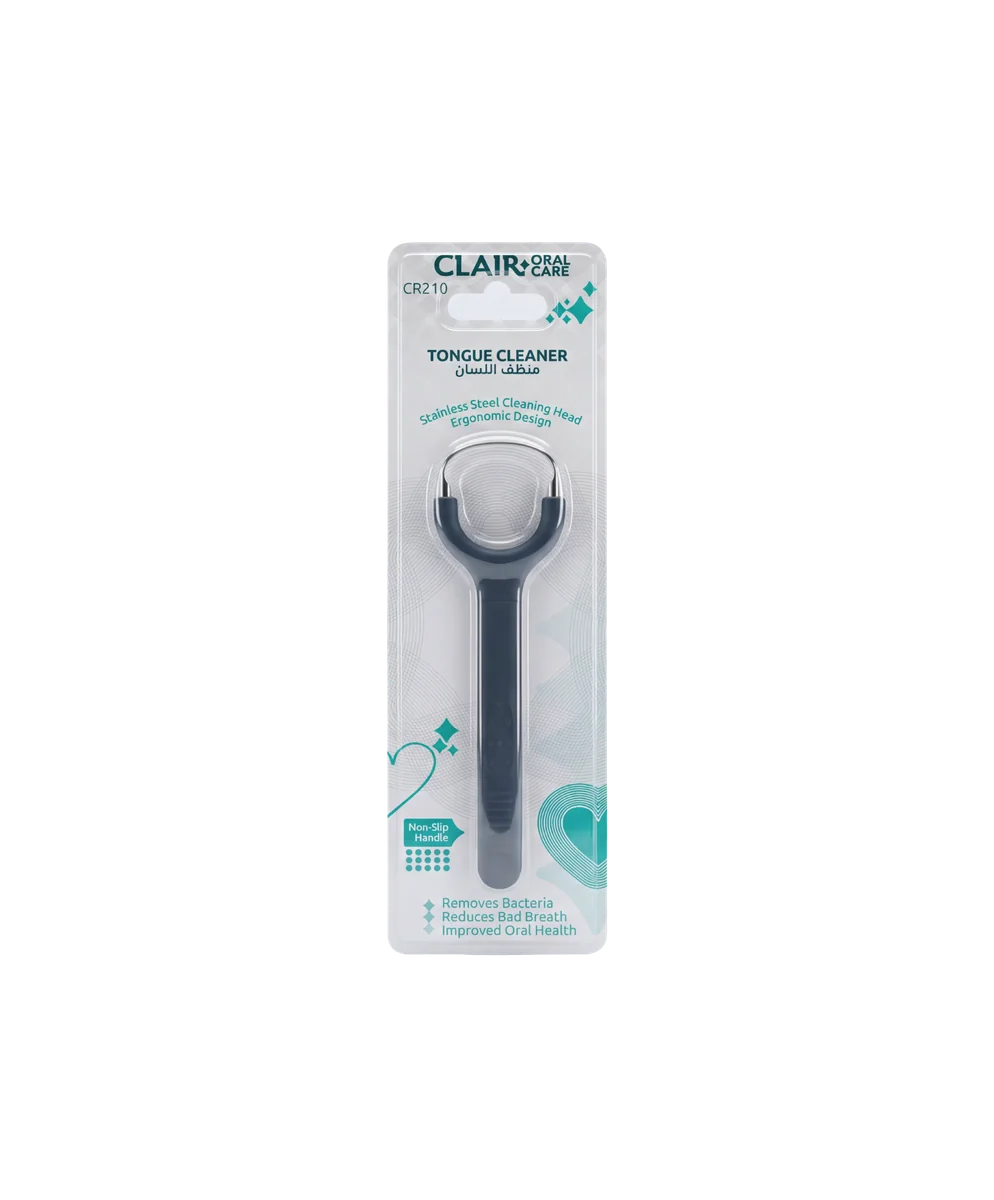
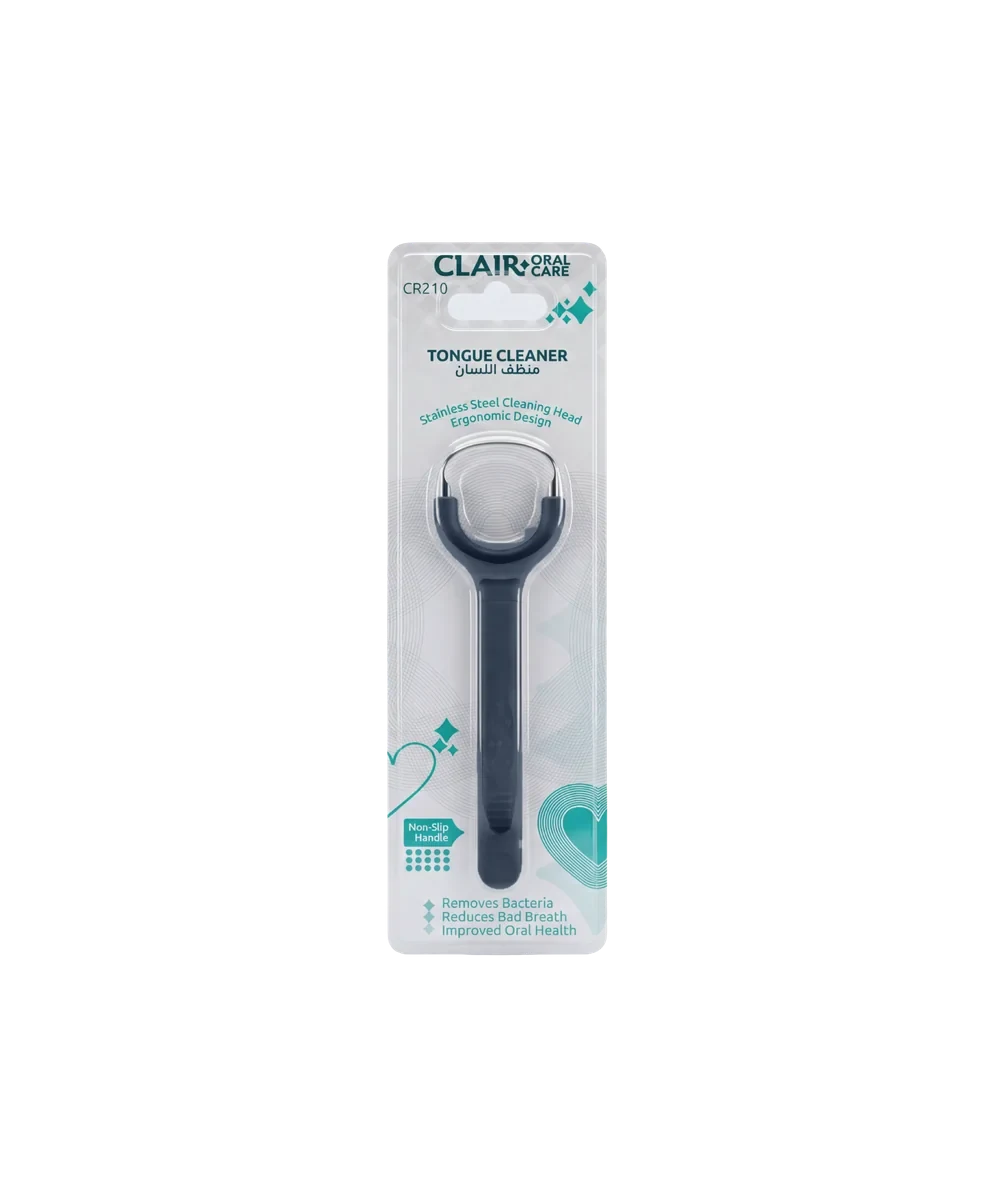
Colour variants for the tongue cleaner, and one asset version across the site
CR210 now shows four handle colours and CR124 two, as a scrollable picker in
the zoom. The variants are rendered from the official product art rather than
photographed: each render already shows one colourway, so the others come from
isolating the handle and retinting it, leaving the stainless head, the printed
card and the alpha channel untouched. The handle is one flat colour end to end,
matching the packs, with the moulded grip ribs preserved.

Also bumps style.css and script.js to v=41 on all twenty-one pages. Only the two
edited product pages had picked it up, so returning visitors would have been
served the stale stylesheet everywhere else.

images/ is left in place. Nothing on the site references it, but the brochure
pages and older renders may be linked from listings and proposals.

Changed region(s): [[0.4366, 0.4317, 0.5614, 0.4933], [0.4678, 0.6475, 0.5302, 0.74]]

diff --git a/range.html b/range.html
@@ -23,7 +23,7 @@
 
 <link rel="preconnect" href="https://fonts.googleapis.com">
 <link rel="preconnect" href="https://fonts.gstatic.com" crossorigin>
-<link rel="stylesheet" href="style.css?v=40">
+<link rel="stylesheet" href="style.css?v=41">
 
 <script>document.documentElement.classList.add('js');</script>
 
@@ -675,8 +675,8 @@
           <img class="official-product-image" src="official/cr210-tongue-steel.webp" alt="Clair stainless steel tongue cleaner CR210" loading="lazy" width="300" height="290">
         </div>
         <div class="product-card-info">
-          <div><h3><a href="/products/stainless-steel-tongue-cleaner/">Stainless Steel Tongue Cleaner</a></h3><p>Stainless-steel head · ergonomic non-slip handle</p></div>
-          <a class="round-arrow" href="official/cr210-tongue-steel.webp" data-zoom data-zoom-alt="Clair stainless steel tongue cleaner CR210" aria-label="View Stainless Steel Tongue Cleaner larger"><svg width="16" height="16" aria-hidden="true"><use href="#i-zoom"/></svg></a>
+          <div><h3><a href="/products/stainless-steel-tongue-cleaner/">Stainless Steel Tongue Cleaner</a></h3><p>Stainless-steel head · ergonomic non-slip handle · 4 colours</p></div>
+          <a class="round-arrow" href="official/cr210-tongue-steel.webp" data-zoom data-zoom-more="official/cr210-tongue-rose.webp|official/cr210-tongue-green.webp|official/cr210-tongue-blush.webp" data-zoom-alt="Clair stainless steel tongue cleaner CR210" aria-label="View Stainless Steel Tongue Cleaner larger"><svg width="16" height="16" aria-hidden="true"><use href="#i-zoom"/></svg></a>
         </div>
       </article>
 
@@ -699,8 +699,8 @@
           <img class="official-product-image" src="official/cr124-ortho-set.webp" alt="Clair orthodontic toothbrush set CR124 with angled interdental brush" loading="lazy" width="300" height="290">
         </div>
         <div class="product-card-info">
-          <div><h3><a href="/products/orthodontic-toothbrush-set/">Orthodontic Toothbrush Set</a></h3><p>Ultra soft 0.12 mm · angled interdental brush · 2s</p></div>
-          <a class="round-arrow" href="official/cr124-ortho-set.webp" data-zoom data-zoom-alt="Clair orthodontic toothbrush set CR124 with angled interdental brush" aria-label="View Orthodontic Toothbrush Set larger"><svg width="16" height="16" aria-hidden="true"><use href="#i-zoom"/></svg></a>
+          <div><h3><a href="/products/orthodontic-toothbrush-set/">Orthodontic Toothbrush Set</a></h3><p>Ultra soft 0.12 mm · angled interdental brush · 2s · 2 colours</p></div>
+          <a class="round-arrow" href="official/cr124-ortho-set.webp" data-zoom data-zoom-more="official/cr124-ortho-purple.webp" data-zoom-alt="Clair orthodontic toothbrush set CR124 with angled interdental brush" aria-label="View Orthodontic Toothbrush Set larger"><svg width="16" height="16" aria-hidden="true"><use href="#i-zoom"/></svg></a>
         </div>
       </article>
 
@@ -831,6 +831,6 @@
   </figure>
 </div>
 
-<script src="script.js?v=40"></script>
+<script src="script.js?v=41"></script>
 </body>
 </html>

diff --git a/style.css b/style.css
@@ -843,12 +843,20 @@ html.js .reveal-4 { transition-delay: .39s; }
 }
 /* Picker for products that have more than one picture; absent when they do not. */
 .zoom-thumbs {
-  justify-content: center;
-  flex-wrap: wrap;
+  /* Colour variants can run to five or more shots, so the picker scrolls on one
+     line rather than wrapping. "safe center" keeps it centred when it fits and
+     falls back to flush-start when it overflows, so the first thumb stays
+     reachable. */
+  justify-content: safe center;
+  flex-wrap: nowrap;
   gap: 8px;
   margin-top: 12px;
+  padding-bottom: 4px;
   display: flex;
+  overflow-x: auto;
+  scrollbar-width: thin;
 }
+.zoom-thumb { flex: 0 0 auto; }
 .zoom-thumbs[hidden] { display: none; }
 .zoom-thumb {
   cursor: pointer;
@@ -1159,3 +1167,12 @@ html.js .reveal-4 { transition-delay: .39s; }
   .review-grid { grid-template-columns: 1fr; gap: 10px; }
   .review { padding: 18px 18px 20px; }
 }
+
+/* --- Colour variants -------------------------------------------------------
+   Only the two products that come in more than one handle colour carry this,
+   so it reads as a real affordance rather than a decoration on every page. */
+.product-colours {
+  margin-top: 18px;
+  text-align: center;
+}
+.product-colours .text-link { font-size: 10px; }

diff --git a/products/stainless-steel-tongue-cleaner/index.html b/products/stainless-steel-tongue-cleaner/index.html
@@ -26,7 +26,7 @@
 
 <link rel="preconnect" href="https://fonts.googleapis.com">
 <link rel="preconnect" href="https://fonts.gstatic.com" crossorigin>
-<link rel="stylesheet" href="/style.css?v=40">
+<link rel="stylesheet" href="/style.css?v=41">
 
 <script>document.documentElement.classList.add('js');</script>
 
@@ -181,6 +181,10 @@
 <section class="product-page section-shell" id="product">
   <figure class="product-figure visual-mint">
     <img class="official-product-image" src="/official/cr210-tongue-steel.webp" alt="Clair stainless steel tongue cleaner CR210" width="300" height="290">
+    <figcaption class="product-colours">
+      <a class="text-link" href="/official/cr210-tongue-steel.webp" data-zoom data-zoom-more="/official/cr210-tongue-rose.webp|/official/cr210-tongue-green.webp|/official/cr210-tongue-blush.webp"
+         data-zoom-alt="Clair stainless steel tongue cleaner CR210" aria-label="Stainless Steel Tongue Cleaner larger">View 4 handle colours <svg width="15" height="15" aria-hidden="true"><use href="#i-zoom"/></svg></a>
+    </figcaption>
   </figure>
 
   <div class="product-detail">
@@ -309,6 +313,6 @@
   </figure>
 </div>
 
-<script src="/script.js?v=40"></script>
+<script src="/script.js?v=41"></script>
 </body>
 </html>

diff --git a/products/orthodontic-toothbrush-set/index.html b/products/orthodontic-toothbrush-set/index.html
@@ -26,7 +26,7 @@
 
 <link rel="preconnect" href="https://fonts.googleapis.com">
 <link rel="preconnect" href="https://fonts.gstatic.com" crossorigin>
-<link rel="stylesheet" href="/style.css?v=40">
+<link rel="stylesheet" href="/style.css?v=41">
 
 <script>document.documentElement.classList.add('js');</script>
 
@@ -181,6 +181,10 @@
 <section class="product-page section-shell" id="product">
   <figure class="product-figure visual-mint">
     <img class="official-product-image" src="/official/cr124-ortho-set.webp" alt="Clair orthodontic toothbrush set CR124 with angled interdental brush" width="300" height="290">
+    <figcaption class="product-colours">
+      <a class="text-link" href="/official/cr124-ortho-set.webp" data-zoom data-zoom-more="/official/cr124-ortho-purple.webp"
+         data-zoom-alt="Clair orthodontic toothbrush set CR124 with angled interdental brush" aria-label="Orthodontic Toothbrush Set larger">View 2 handle colours <svg width="15" height="15" aria-hidden="true"><use href="#i-zoom"/></svg></a>
+    </figcaption>
   </figure>
 
   <div class="product-detail">
@@ -304,6 +308,6 @@
   </figure>
 </div>
 
-<script src="/script.js?v=40"></script>
+<script src="/script.js?v=41"></script>
 </body>
 </html>

diff --git a/index.html b/index.html
@@ -32,7 +32,7 @@
 <link rel="preconnect" href="https://fonts.gstatic.com" crossorigin>
 <!-- ?v bumped whenever style.css or script.js changes, so browsers holding a
      cached copy pick up the new version. -->
-<link rel="stylesheet" href="style.css?v=40">
+<link rel="stylesheet" href="style.css?v=41">
 
 <!-- Set before first paint so scroll-reveal blocks never flash in and out. -->
 <script>document.documentElement.classList.add('js');</script>
@@ -504,6 +504,6 @@
   </div>
 </div>
 
-<script src="script.js?v=40"></script>
+<script src="script.js?v=41"></script>
 </body>
 </html>

diff --git a/products/anti-plaque-toothbrush-cr110/index.html b/products/anti-plaque-toothbrush-cr110/index.html
@@ -26,7 +26,7 @@
 
 <link rel="preconnect" href="https://fonts.googleapis.com">
 <link rel="preconnect" href="https://fonts.gstatic.com" crossorigin>
-<link rel="stylesheet" href="/style.css?v=40">
+<link rel="stylesheet" href="/style.css?v=41">
 
 <script>document.documentElement.classList.add('js');</script>
 
@@ -309,6 +309,6 @@
   </figure>
 </div>
 
-<script src="/script.js?v=40"></script>
+<script src="/script.js?v=41"></script>
 </body>
 </html>

diff --git a/products/anti-plaque-toothbrush-cr150/index.html b/products/anti-plaque-toothbrush-cr150/index.html
@@ -26,7 +26,7 @@
 
 <link rel="preconnect" href="https://fonts.googleapis.com">
 <link rel="preconnect" href="https://fonts.gstatic.com" crossorigin>
-<link rel="stylesheet" href="/style.css?v=40">
+<link rel="stylesheet" href="/style.css?v=41">
 
 <script>document.documentElement.classList.add('js');</script>
 
@@ -309,6 +309,6 @@
   </figure>
 </div>
 
-<script src="/script.js?v=40"></script>
+<script src="/script.js?v=41"></script>
 </body>
 </html>

diff --git a/products/anti-plaque-toothbrush-cr180/index.html b/products/anti-plaque-toothbrush-cr180/index.html
@@ -26,7 +26,7 @@
 
 <link rel="preconnect" href="https://fonts.googleapis.com">
 <link rel="preconnect" href="https://fonts.gstatic.com" crossorigin>
-<link rel="stylesheet" href="/style.css?v=40">
+<link rel="stylesheet" href="/style.css?v=41">
 
 <script>document.documentElement.classList.add('js');</script>
 
@@ -309,6 +309,6 @@
   </figure>
 </div>
 
-<script src="/script.js?v=40"></script>
+<script src="/script.js?v=41"></script>
 </body>
 </html>

diff --git a/products/copper-tongue-cleaner/index.html b/products/copper-tongue-cleaner/index.html
@@ -26,7 +26,7 @@
 
 <link rel="preconnect" href="https://fonts.googleapis.com">
 <link rel="preconnect" href="https://fonts.gstatic.com" crossorigin>
-<link rel="stylesheet" href="/style.css?v=40">
+<link rel="stylesheet" href="/style.css?v=41">
 
 <script>document.documentElement.classList.add('js');</script>
 
@@ -308,6 +308,6 @@
   </figure>
 </div>
 
-<script src="/script.js?v=40"></script>
+<script src="/script.js?v=41"></script>
 </body>
 </html>

diff --git a/products/cordless-water-flosser/index.html b/products/cordless-water-flosser/index.html
@@ -26,7 +26,7 @@
 
 <link rel="preconnect" href="https://fonts.googleapis.com">
 <link rel="preconnect" href="https://fonts.gstatic.com" crossorigin>
-<link rel="stylesheet" href="/style.css?v=40">
+<link rel="stylesheet" href="/style.css?v=41">
 
 <script>document.documentElement.classList.add('js');</script>
 
@@ -310,6 +310,6 @@
   </figure>
 </div>
 
-<script src="/script.js?v=40"></script>
+<script src="/script.js?v=41"></script>
 </body>
 </html>

diff --git a/products/durafloss-floss-pick/index.html b/products/durafloss-floss-pick/index.html
@@ -26,7 +26,7 @@
 
 <link rel="preconnect" href="https://fonts.googleapis.com">
 <link rel="preconnect" href="https://fonts.gstatic.com" crossorigin>
-<link rel="stylesheet" href="/style.css?v=40">
+<link rel="stylesheet" href="/style.css?v=41">
 
 <script>document.documentElement.classList.add('js');</script>
 
@@ -308,6 +308,6 @@
   </figure>
 </div>
 
-<script src="/script.js?v=40"></script>
+<script src="/script.js?v=41"></script>
 </body>
 </html>

diff --git a/products/flossmate-floss-pick/index.html b/products/flossmate-floss-pick/index.html
@@ -26,7 +26,7 @@
 
 <link rel="preconnect" href="https://fonts.googleapis.com">
 <link rel="preconnect" href="https://fonts.gstatic.com" crossorigin>
-<link rel="stylesheet" href="/style.css?v=40">
+<link rel="stylesheet" href="/style.css?v=41">
 
 <script>document.documentElement.classList.add('js');</script>
 
@@ -308,6 +308,6 @@
   </figure>
 </div>
 
-<script src="/script.js?v=40"></script>
+<script src="/script.js?v=41"></script>
 </body>
 </html>
